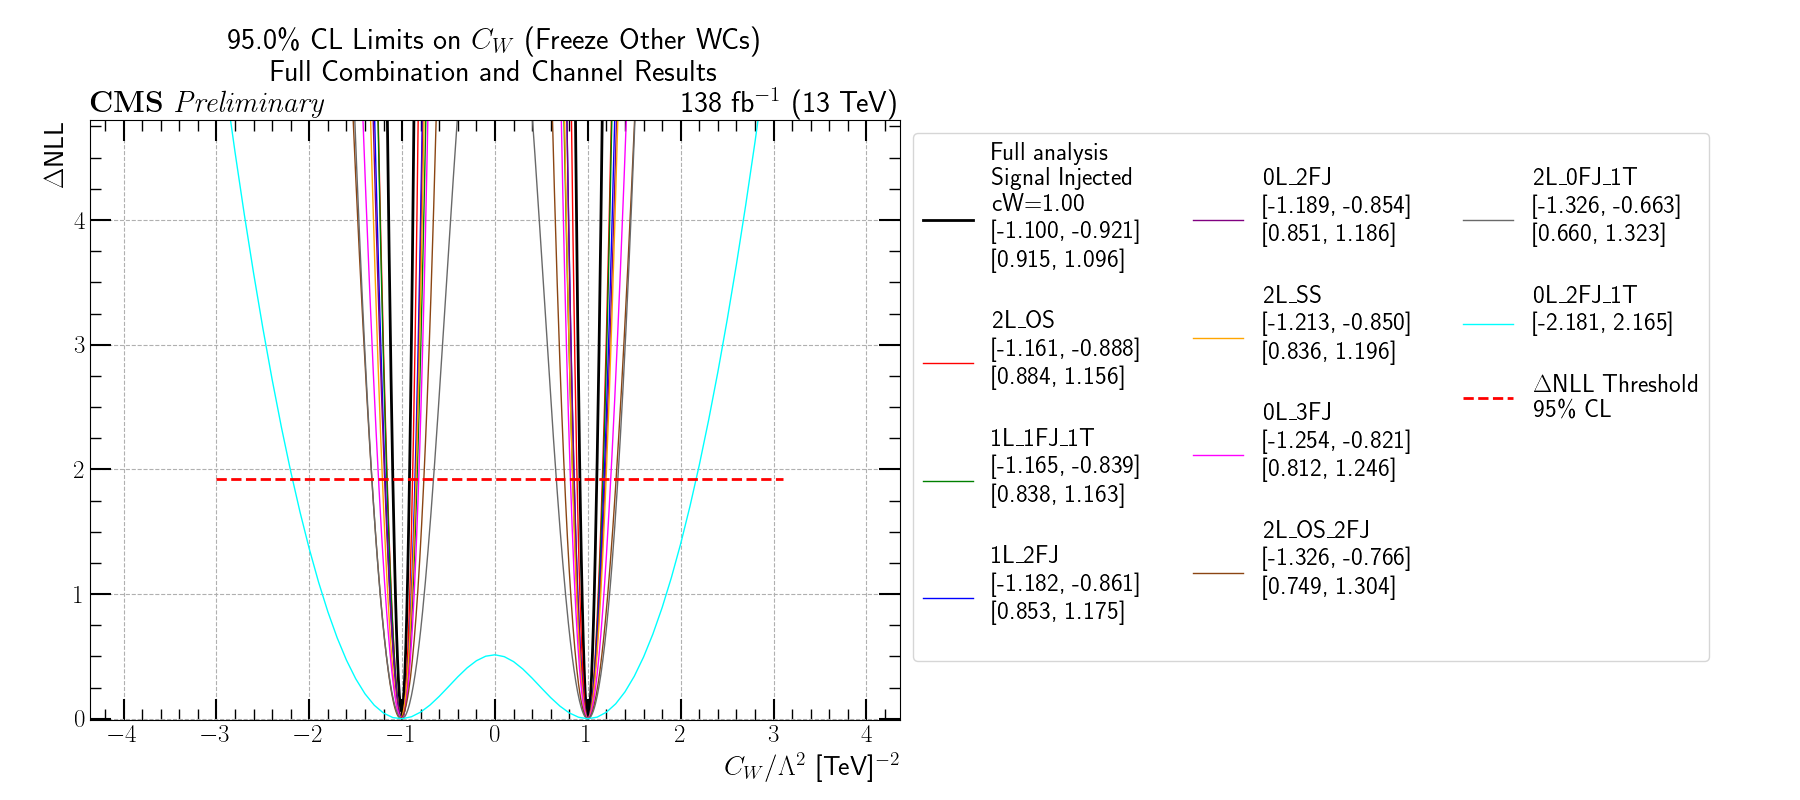
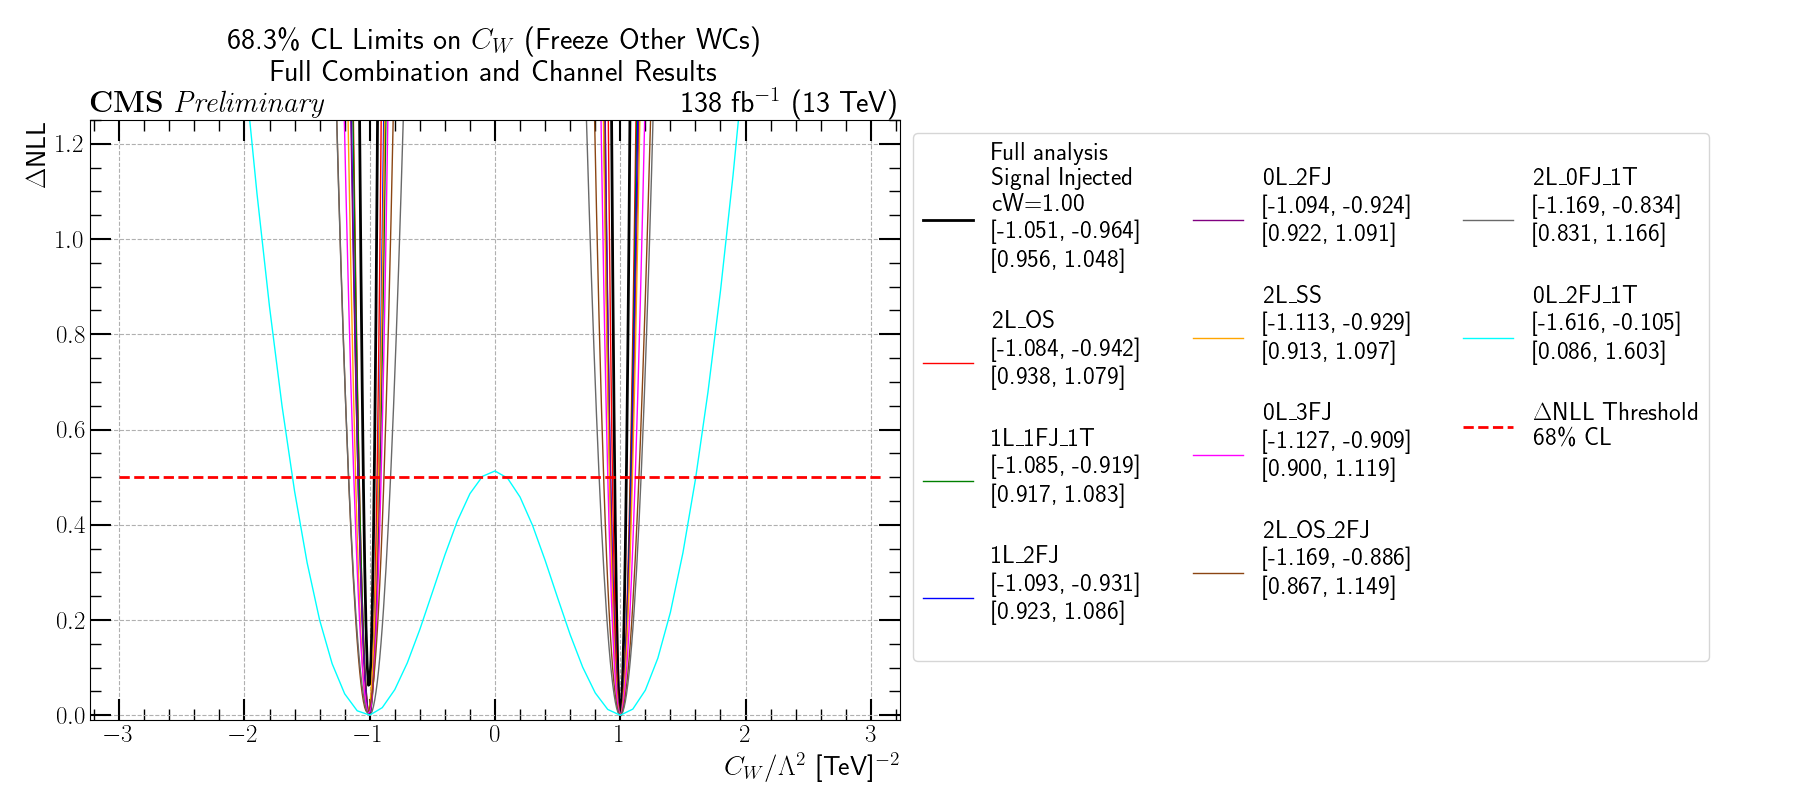
Same as previous, switched to 1sigma.

diff --git a/EFTAnalysisFitting/scripts/1D_scan/summary_NLL_limits_plot.py b/EFTAnalysisFitting/scripts/1D_scan/summary_NLL_limits_plot.py
@@ -150,7 +150,8 @@ def make_limit_NLL_summary_plot(WC, root_file_dict_full, title, CL=0.95, plot_st
         xlim = xlim_factor*np.max(np.abs(np.concatenate([np.concatenate([LL for LL in LLs_all]), np.concatenate([UL for UL in ULs_all])])))
         ax.set_xlim([-xlim, xlim])
         # FIXME! for tau debug
-        max_ = 10*np.min(np.abs(np.concatenate([UL for UL in ULs_all])))
+        #max_ = 10*np.min(np.abs(np.concatenate([UL for UL in ULs_all])))
+        max_ = 100.
         if xlim > max_:
             ax.set_xlim([-max_, max_])
     #ax.set_ylim([-0.01, 2.5*np.max(NLL_cuts)])
@@ -284,7 +285,8 @@ if __name__=='__main__':
     # SM expectation
     expect_signal = '1'
     # confidence level
-    CL = 0.95
+    #CL = 0.95
+    CL = CL_1sigma
     for WC in WCs:
         print(f'WC: '+WC)
         # full analysis plot
